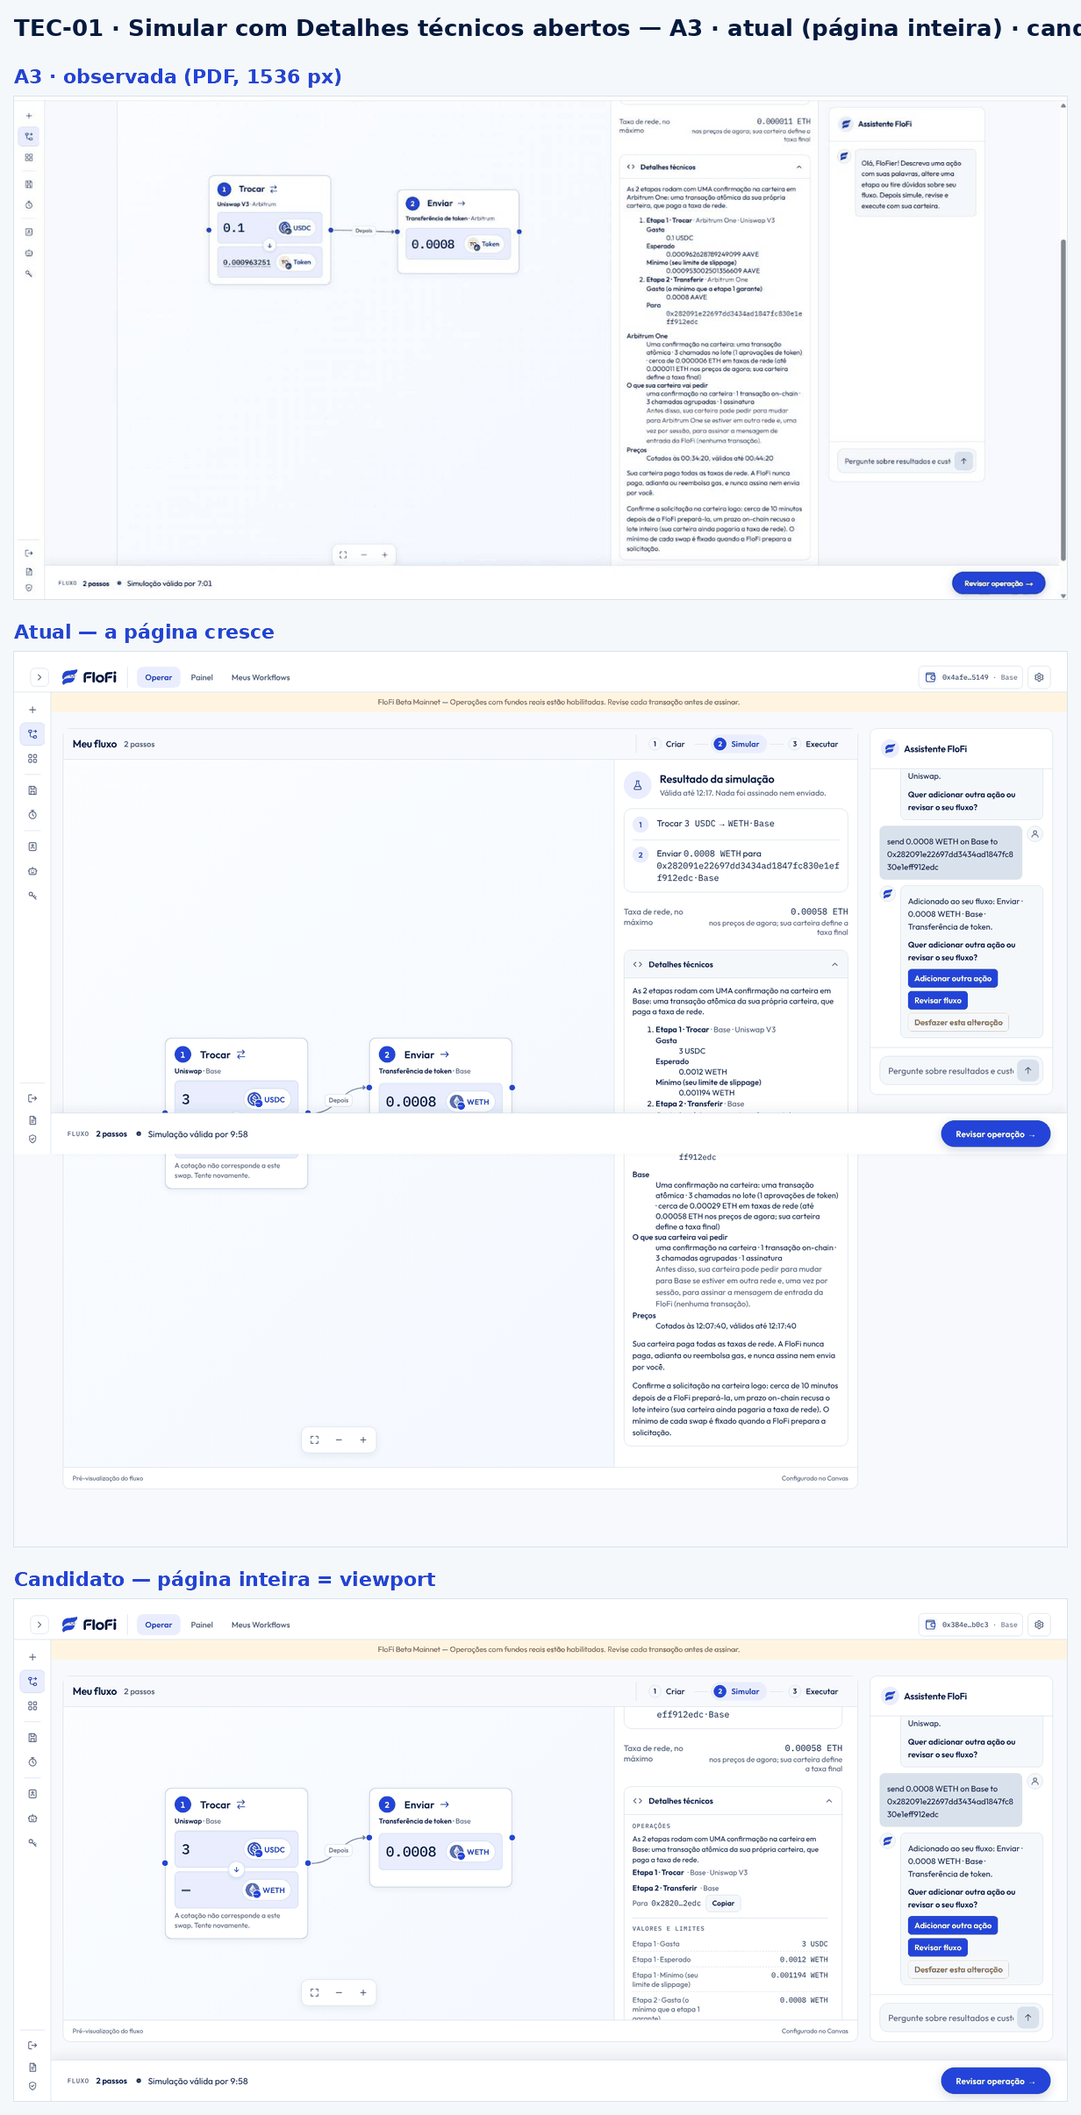
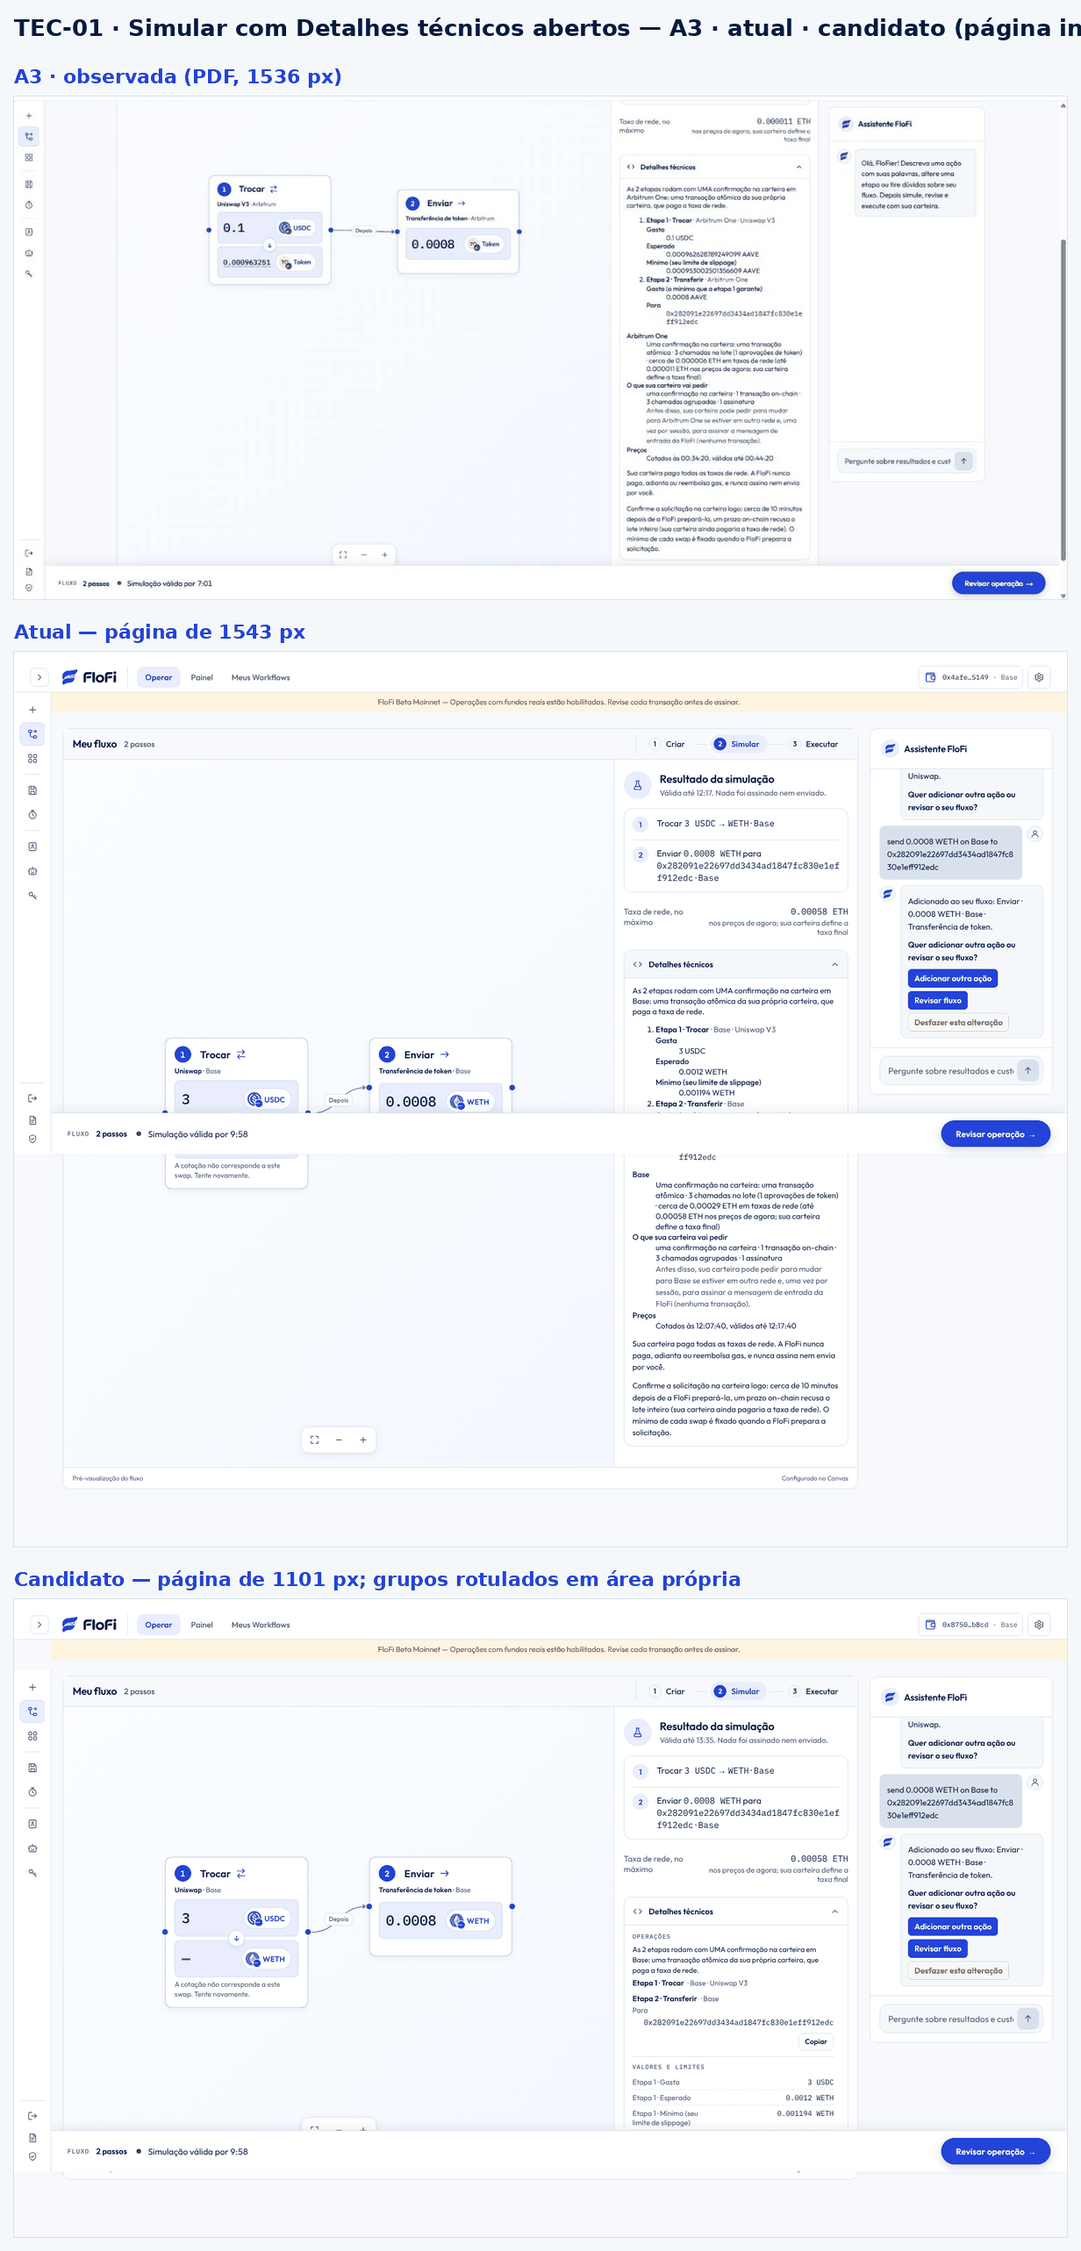
fix(editor): keep the docked Review in the page flow; only Technical details scroll in a bounded area
The candidate that made the whole docked Review scroll inside its frame
(desktop) broke the accepted contract asserted by editor-layout-hotfix.spec.ts:
"One page scroll: the dock has no scroll area of its own". It could also put
material rows (token permission, wallet requests) below the panel's fold
while Authorize stayed visible (flofi-security and flofi-frontend-ux
reviews). It is withdrawn, with its bottom fade.

What remains is what the PDF (§6) asks for: the content of an opened
"Technical details" scrolls inside its own bounded area, so opening it
lengthens the page by at most that bound (at 1815x866: 1,782 -> 1,264 px on
Execute, 1,543 -> 1,101 px on Simulate) instead of pouring the full list
into the page. The footer's action stays fixed. The owner's own click
reveals the opened content (nearest edge only). A re-created open
disclosure never scrolls.

Tests: editor-stages-review keeps the no-page-scroll assertions only where
the layout guarantees them (Create; two-step Simulate). It asserts the
bounded body, the primary action in view, no server action on toggle and
the material rows on screen. Build record, STATUS and comparison sheets
are updated to the final layout.

Claude-Session: https://claude.ai/code/session_018FmXnarSdch1wQJZr2pZuX

diff --git a/apps/reference-dapp/e2e/editor-stages-review.spec.ts b/apps/reference-dapp/e2e/editor-stages-review.spec.ts
@@ -101,8 +101,8 @@ async function evidence(page: Page, name: string) {
 }
 const footer = (page: Page) => page.locator('footer.summary-bar');
 /** BUILD-FLOFI-UX-REFINEMENT-HISTORY-001 (approved references): on a desktop viewport the Editor fits it; the Canvas and the Assistant end above
- * the sticky footer and the page itself does not scroll. BUILD-FLOFI-EDITOR-VISUAL-FIDELITY-002: the docked panel scrolls inside its frame, so a
- * three-step Review and an opened "Technical details" fit too. */
+ * the sticky footer and the page itself does not scroll. (A Review with more content than the references' two steps may make its frame taller —
+ * one page scroll, the docked Review has no scroll area of its own: editor-layout-hotfix.spec.ts.) */
 async function fitsViewport(page: Page) {
   await expect.poll(() => page.evaluate(() => document.documentElement.scrollHeight - window.innerHeight)).toBeLessThanOrEqual(0);
 }
@@ -183,7 +183,6 @@ test('Create → Simulate → Execute: simulated in Simulate, authorized only fr
   await simulateTechnical.locator('> summary').click();
   await expect(simulateTechnical).toContainText('eip155:8453');
   await simulateTechnical.locator('> summary').click();
-  await fitsViewport(page);
   await evidence(page, 'simulate-awaiting');
   await editorStep(page, 'Build').click();
   await expectEditorSection(page, 'Build');
@@ -201,7 +200,6 @@ test('Create → Simulate → Execute: simulated in Simulate, authorized only fr
   await expect(page.getByRole('toolbar', { name: /^(Canvas tools|Ferramentas do Canvas)$/ })).toHaveCount(0);
   const reviewOperation = footer(page).getByRole('button', { name: W.review, exact: true });
   await expect(reviewOperation).toBeEnabled();
-  await fitsViewport(page);
   await evidence(page, 'simulate-result');
   expect(methods.filter(method => ASKING.test(method))).toEqual([]);
 
@@ -215,12 +213,12 @@ test('Create → Simulate → Execute: simulated in Simulate, authorized only fr
   await evidence(page, 'execute-valid');
 
   // BUILD-FLOFI-EDITOR-VISUAL-FIDELITY-002 (TEC-01, TEC-02): "Technical details" is collapsed by default; opened, it is a few labelled groups in a
-  // bounded area inside the panel — the page does not grow, the one primary action stays on screen, and opening or closing it requests nothing
+  // bounded area inside the panel — the one primary action stays on screen, and opening or closing it requests nothing
   // (no server action, no wallet request). The material rows stay visible above it.
   const validTechnical = runPanel(page).locator('details.review-panel-technical');
   await expect(validTechnical).toHaveCount(1); await expect(validTechnical).not.toHaveAttribute('open', '');
-  // Before signing, the material rows are on screen inside the docked panel (it scrolls within its frame) — a three-step Review at 1440 × 900,
-  // with Technical details closed: never only reachable by scrolling the panel (flofi-security / flofi-frontend-ux review).
+  // Before signing, the material rows are on screen — a three-step Review at 1440 × 900 with Technical details closed (flofi-security /
+  // flofi-frontend-ux review).
   for (const row of PT ? ['Taxa de rede, no máximo', 'Permissão de token', 'Pedidos à carteira'] : ['Network fee, at most', 'Token permission', 'Wallet requests'])
     await expect(runPanel(page).locator('.review-block-rows > div').filter({ has: page.getByText(row, { exact: true }) })).toBeInViewport();
   const actions: string[] = [];
@@ -232,8 +230,8 @@ test('Create → Simulate → Execute: simulated in Simulate, authorized only fr
   for (const group of PT ? ['Operações', 'Valores e limites', 'Taxas e permissões', 'Solicitações à carteira', 'Identificadores e evidências']
     : ['Operations', 'Amounts and limits', 'Fees and permissions', 'Requests to your wallet', 'Identifiers and evidence'])
     await expect(technicalBody.getByRole('group', { name: group, exact: true })).toHaveCount(1);
+  // Its content scrolls inside its own bounded area: opening it adds at most that bound to the page (never the whole list of facts).
   expect(await technicalBody.evaluate(element => element.clientHeight)).toBeLessThanOrEqual(400);
-  await fitsViewport(page);
   await expect(footer(page).getByRole('button', { name: W.authorize, exact: true })).toBeInViewport();
   await expect(page.locator('main, .summary-bar').getByRole('button', { name: W.authorize, exact: true })).toHaveCount(1);
   await validTechnical.locator('> summary').click();
@@ -272,7 +270,6 @@ test('Create → Simulate → Execute: simulated in Simulate, authorized only fr
   await expiredTechnical.locator('> summary').click();
   // "Refresh review" is the one primary action on screen.
   await expect(page.locator('main, .summary-bar').locator('button.primary:visible')).toHaveCount(1);
-  await fitsViewport(page);
   await evidence(page, 'execute-expired');
   if (EVIDENCE) {
     await page.setViewportSize({ width: 390, height: 844 });

diff --git a/apps/reference-dapp/src/components/technical-body.tsx b/apps/reference-dapp/src/components/technical-body.tsx
@@ -6,7 +6,7 @@ import { useLocale } from '../i18n/locale';
 /**
  * BUILD-FLOFI-EDITOR-VISUAL-FIDELITY-002 (TEC-01): the content of an opened "Technical details" scrolls inside its own bounded area, so opening it
  * never stretches the page, pushes the workflow out of view or moves the footer's action. A focusable, named region (keyboard users can scroll it).
- * When the owner opens it, the panel it sits in scrolls just enough to show it (the page itself is never scrolled). Presentation only:
+ * When the owner opens it (only then), the view scrolls just enough to show it. Presentation only:
  * what it holds is unchanged, and opening, closing or scrolling it requests nothing.
  */
 export function TechnicalBody({ children, label = 'Technical details' }: { children: ReactNode; label?: string }) {
@@ -20,12 +20,8 @@ export function TechnicalBody({ children, label = 'Technical details' }: { child
     const reveal = () => window.requestAnimationFrame(() => {
       const body = ref.current;
       if (!details.open || !body) return;
-      // Scroll only the nearest scrolling panel (the docked Review on a desktop); the page itself is never scrolled.
-      let pane = body.parentElement;
-      while (pane && pane !== document.body && !/(auto|scroll)/.test(getComputedStyle(pane).overflowY)) pane = pane.parentElement;
-      if (!pane || pane === document.body) return;
-      const below = body.getBoundingClientRect().bottom - pane.getBoundingClientRect().bottom;
-      if (below > 0) pane.scrollTo({ top: pane.scrollTop + below + 8, behavior: window.matchMedia?.('(prefers-reduced-motion: reduce)').matches ? 'auto' : 'smooth' });
+      // Just enough to show what the owner opened (nearest edge); nothing moves when it is already in view.
+      body.scrollIntoView({ block: 'nearest', inline: 'nearest', behavior: window.matchMedia?.('(prefers-reduced-motion: reduce)').matches ? 'auto' : 'smooth' });
     });
     summary?.addEventListener('click', reveal);
     return () => summary?.removeEventListener('click', reveal);

diff --git a/apps/reference-dapp/src/app/editor-fidelity.css b/apps/reference-dapp/src/app/editor-fidelity.css
@@ -29,22 +29,3 @@ dl.technical-rows+dl.technical-rows{margin-top:6px;padding-top:4px;border-top:1p
   dl.technical-rows>div{grid-template-columns:minmax(0,1fr)}
   dl.technical-rows dd{text-align:left}
 }
-
-/* BUILD-FLOFI-EDITOR-VISUAL-FIDELITY-002 (PDF §6, "Rolagem"): on a desktop Editor, the panel docked beside the Canvas scrolls inside the frame's own height
-   instead of stretching it. Opening "Technical details", or a Review with more steps than the references, never grows the page, never re-centres
-   the Canvas and never moves the footer's action. The dock does not size the row (height 0, at least the row's height), so the frame keeps the
-   Canvas/Assistant height; a stacked (narrow) frame keeps its natural flow. */
-@media(min-width:1281px){
-  @container flofi-canvas-frame (min-width:900px){
-    .main.workflow-workspace :is(.simulate-workspace,.execute-workspace) .simulation-workflow-canvas[data-docked]>.simulate-canvas-body>.canvas-review-dock{
-      position:relative;height:0;min-height:100%;overflow-y:auto;overscroll-behavior:contain;scrollbar-width:thin;scrollbar-gutter:stable}
-  }
-}
-
-/* A quiet cue that the docked panel holds more below its fold (frontend-ux review): a short fade pinned to its bottom edge. */
-@media(min-width:1281px){
-  @container flofi-canvas-frame (min-width:900px){
-    .main.workflow-workspace :is(.simulate-workspace,.execute-workspace) .simulation-workflow-canvas[data-docked]>.simulate-canvas-body>.canvas-review-dock::after{
-      content:"";position:sticky;bottom:0;display:block;height:20px;margin-top:-20px;pointer-events:none;background:linear-gradient(to bottom,transparent,var(--surface))}
-  }
-}

diff --git a/docs/builds/BUILD-FLOFI-EDITOR-VISUAL-FIDELITY-002.md b/docs/builds/BUILD-FLOFI-EDITOR-VISUAL-FIDELITY-002.md
@@ -73,21 +73,23 @@ one "Atualizar revisão"); disclosure state across layouts; execution receipts.
 - Grouped content: **Operações · Valores e limites · Taxas e permissões · Solicitações à carteira · Identificadores e evidências**, only when they hold
   data; one fact per row; same translation keys and conditions; recipient shortened with Copy (full value in tooltip).
 - Bounded, focusable scroll region per disclosure (`TechnicalBody`); revealed inside the panel when opened; collapsed by default.
-- Desktop Editor: the docked panel scrolls inside the frame. With details open the page stays exactly 1815×866, 1774×887 and 1440×900 (before:
-  ≈1,780 px); the Canvas never re-centres, the footer action never moves, and three-step Reviews fit too.
+- With details open, the page grows by at most the bounded body (≈380 px on desktop; 55vh on a phone) instead of by the whole list of facts
+  (before: ≈1,780 px at 1815×866; the evidence sheets show both). The footer's action stays fixed. The docked Review keeps no scroll area of its own
+  (one page scroll — the accepted contract asserted by `editor-layout-hotfix.spec.ts`); a candidate that scrolled the whole docked panel inside its
+  frame was tried and withdrawn because it broke that contract and could place material rows below the panel's fold (security/frontend reviews).
 
 ## 4. Product acceptance matrix (PDF §12)
 
 | ID | Baseline (dc09621) | Already implemented? | Changes / files | Tests | Screenshots | Remaining deviation · risk | Status |
 | --- | --- | --- | --- | --- | --- | --- | --- |
 | GLOBAL-01 / P1 | Header "Operar · Painel · Meus Workflows" | Yes (PR #219/#224) | None | `editor-stages-review` (areas, Operate current) | 01, 04, 05 | None · low | TECHNICALLY TESTED · VISUALLY REVIEWED |
-| GLOBAL-02 / P1 | Internal stepper; Canvas consistent | Yes | Docked panel bounded on desktop (`editor-fidelity.css`) | no-page-scroll assertions (Create, Simulate 2/3 steps, Execute) | 01–08 | Stepper markers are numbers, not A1's check circles (A4 uses numbers) · low | TECHNICALLY TESTED · VISUALLY REVIEWED |
+| GLOBAL-02 / P1 | Internal stepper; Canvas consistent | Yes | None to the layout | no-page-scroll assertions (Create; two-step Simulate) | 01–08 | Stepper markers are numbers, not A1's check circles (A4 uses numbers) · low | TECHNICALLY TESTED · VISUALLY REVIEWED |
 | SIM-01 / P1 | Compact icon summary with networks | Yes | Token catalogs loaded on Simulate/Execute (`asset-catalog-store.ts`, `simulate-workflow-canvas.tsx`, `operation-summary.tsx`) | `workflow-catalog-chains.test.ts`; existing summary tests | 01 | Summary omits A1's "~expected" amount (an expired estimate must never read as current; PR #224 decision) · low | TECHNICALLY TESTED · VISUALLY REVIEWED (AAVE on Arbitrum not reproducible in the MOCKED Base harness — see §5) |
 | SIM-02 / P1 | One CTA per state | Yes | None | `editor-stages-review` (one Simulate, one primary) | 01, 02 | None · low | TECHNICALLY TESTED · VISUALLY REVIEWED |
 | SIM-03 / P1 | Pre/valid/failed/expired distinct | Yes | Focus kept across layouts (Workstream C) | `simulate-panel-disclosure` (checking/unavailable/blocked/pending/ready) | 02 | None · low | TECHNICALLY TESTED |
 | EXE-01 / P1 | "Você está autorizando" before any wallet request | Partial | "Revise antes de autorizar" | unit + `editor-wallet-batch`, `editor-stages-review` | 05 | None · low | TECHNICALLY TESTED · VISUALLY REVIEWED |
 | EXE-02 / P0 | Expired Review blocks authorization | Yes (PR #224) | None | `editor-stages-review` (no Authorize; one primary "Atualizar revisão") | 04 | None · low | TECHNICALLY TESTED · VISUALLY REVIEWED |
-| TEC-01 / P1 | Long text column; page grows (A3/A6 reproduced) | No | `technical-body.tsx`, `editor-workflow-run.tsx`, `review-summary-panel.tsx`, `simulation-context-panel.tsx`, `editor-fidelity.css` | `editor-stages-review` (groups, bounded body, no action on toggle, page = viewport, CTA in view); unit | 03, 06, 07 | Nested scroll (panel + body) on desktop · low | TECHNICALLY TESTED · VISUALLY REVIEWED |
+| TEC-01 / P1 | Long text column; page grows (A3/A6 reproduced) | No | `technical-body.tsx`, `editor-workflow-run.tsx`, `review-summary-panel.tsx`, `simulation-context-panel.tsx`, `editor-fidelity.css` | `editor-stages-review` (groups, bounded body, no action on toggle, primary action in view, material rows in view); unit | 03, 06, 07 | Opening details still lengthens the page by up to the body's bound · low | TECHNICALLY TESTED · VISUALLY REVIEWED |
 | TEC-02 / P0 | Material rows visible above details | Yes | Same facts/keys regrouped; nothing removed | unit (row values), `editor-stages-review` (fee, permission, wallet requests visible) | 05, 06 | None · low | TECHNICALLY TESTED |
 | QA-01 / P1 | — | — | Comparison sheets (this folder) | — | 01–08 | A2/A3/A5/A6 only at 1536 px in the PDF; references use Arbitrum/AAVE, captures the MOCKED Base harness (USDC/WETH) | VISUALLY REVIEWED |
 | QA-02 / P0 | — | — | §6 | §6 | — | §5 | TECHNICALLY TESTED (CircleCI on the PR head is the authority) |
@@ -100,7 +102,9 @@ No item is **ACCEPTED BY PRODUCT**; that decision belongs to the FloFi product t
 - The Simulate summary does not repeat the Canvas estimate "~0.000893108 AAVE" of A1: a live estimate can expire; it is shown in the result instead.
 - AAVE on Arbitrum cannot be reproduced in the MOCKED Base harness; the fix is covered by unit tests and by the existing resolution path; a live
   check on Arbitrum with the official catalog is recommended (owner, read-only).
-- Technical details on desktop scroll inside a panel that itself scrolls (nested), by design to keep the page and the footer action fixed.
+- Opening Technical details lengthens the page by up to the bounded body (≈380 px desktop); a fully fixed page would need the docked Review to
+  scroll on its own, which the accepted one-page-scroll contract excludes. A three-step Simulate/Execute can still scroll the page by 5–55 px
+  (unchanged from PR #224).
 
 ## 6. Specialist reviews (read-only `.claude/agents/flofi-*`, advisory) and dispositions
 
@@ -109,10 +113,10 @@ The reviewers could not read the git-ignored review packet and reviewed the curr
 | Reviewer | Finding (severity) | Disposition |
 | --- | --- | --- |
 | frontend-ux, wallet-execution | The recipient in the Review's Technical details (and inline in the run view) was shortened to 6+4 characters (major / low) | **Fixed**: the full address is shown (wrapping monospace) with its Copy control. |
-| frontend-ux, workflow, wallet-execution | The reveal-on-open used `scrollIntoView` (could scroll the page) on every `toggle`, including a controlled `<details>` re-created open (medium / low) | **Fixed**: only the owner's click on the summary reveals it, scrolling only the nearest scrolling panel; the page is never scrolled. |
+| frontend-ux, workflow, wallet-execution | The reveal-on-open ran on every `toggle`, including a controlled `<details>` re-created open (medium / low) | **Fixed**: only the owner's own click on the summary reveals the opened content (nearest edge); a re-created open disclosure never scrolls anything. |
 | wallet-execution | An expired, non-grouped Review still showed "Review valid until …" in green (low, pre-existing) | **Fixed**: no validity line on an expired Review. |
 | frontend-ux | Nested scroll areas with `overscroll-behavior: contain` could trap scrolling on phones (medium) | **Fixed**: the technical body no longer contains overscroll. |
-| frontend-ux | The bounded desktop dock can hold rows below its fold while Authorize stays visible (medium) | **Mitigated**: a bottom fade marks more content; before, the page scrolled the same rows below the fold while the sticky footer stayed visible (not a regression). |
+| frontend-ux, security | The bounded desktop dock can hold material rows below its fold while Authorize stays visible (medium / low) | **Resolved by withdrawal**: the docked Review is no longer bounded (one page scroll, as `editor-layout-hotfix.spec.ts` requires); only the technical body is bounded. `editor-stages-review` asserts the fee, permission and wallet-request rows are on screen for a three-step Review at 1440×900. |
 | frontend-ux | Each group was a landmark (low) | **Fixed**: groups are `role="group"` named by their heading. |
 | frontend-ux | The grouping also shapes the live run view (low) | **Kept, intended**: the same facts, grouped the same way while a run is in progress. |
 | workflow | `catalogs` memo dependency not read inside the memo (low) | **Fixed**: read explicitly. |

diff --git a/docs/STATUS.md b/docs/STATUS.md
@@ -14,7 +14,7 @@ Presentation, test and CI-fix build: no financial engine, wallet, signing, execu
 local and MOCKED; nothing was signed or sent. Not accepted by product (the FloFi product team decides).**
 - Post-merge red on `main` `dc09621` (`brand-ux-001`, 320 px): the Simulate panel lost the focus the phone shortcut gave it when the availability
   answer switched its layout; the panel now keeps it (regression fails on the baseline).
-- Technical details are labelled groups in a bounded area; on desktop the docked panel scrolls inside its frame, so the page no longer grows.
+- Technical details are labelled groups in a bounded scroll area; opening them no longer pours the full text into the page.
 - The valid Review reads "Revise antes de autorizar"; Simulate/Execute load the official token catalogs (a listed token is named, never "Token").
 
 See the [build record](builds/BUILD-FLOFI-EDITOR-VISUAL-FIDELITY-002.md).
